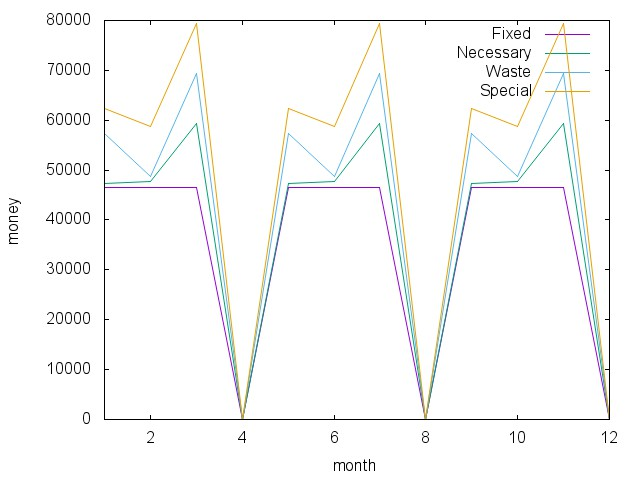
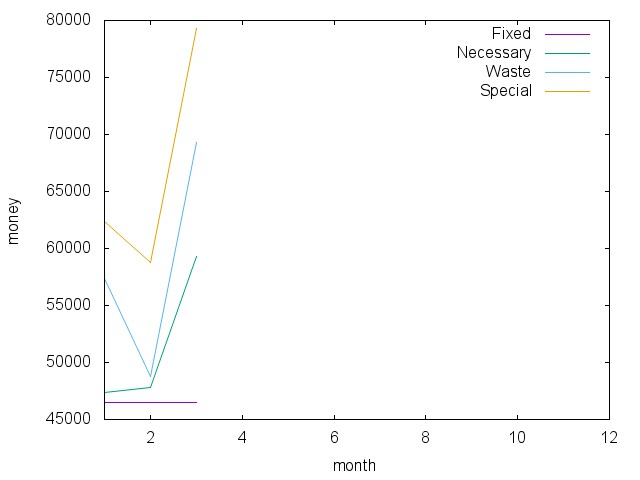
update
update

diff --git a/Private/household_account/kakeibo.rb b/Private/household_account/kakeibo.rb
@@ -3,6 +3,11 @@
 =end
 
 def main
+#過去データの削除
+    4.times do |a|
+        delete(a+1)
+    end
+
 #calをtxt数分、繰り返す    
     Dir.glob("./data/#{ARGV[0]}/*.txt").count.times do |month|
             cal(ARGV[0],month)
@@ -44,6 +49,7 @@ def cal(year,month)
 #p [tmp_all, tmp_one, tmp_two, tmp_three, tmp_four]
 
 #データの計算
+=begin
 #全体の計算    
     n = 1
     total_all = 0
@@ -51,6 +57,7 @@ def cal(year,month)
         total_all += tmp_all[ tmp_all.size - n ]
         n += 1
     end
+=end
 
 #固定費の計算
     n = 1
@@ -85,7 +92,6 @@ def cal(year,month)
    end
 
 #外部ファイルにデータを出力
-#    `echo "#{total_all}" >> ./data/output/text.txt`
     `echo "#{total_one}" >> ./data/output/text1.txt`
     `echo "#{total_two}" >> ./data/output/text2.txt`
     `echo "#{total_three}" >> ./data/output/text3.txt`
@@ -96,7 +102,7 @@ end
 
 def plot
 #テキストデータからデータを入力
-    open("./data/output/text.txt","a")#{|f| f.write jikken}
+#    open("./data/output/text.txt","a")#{|f| f.write jikken}
 
 #gnuplotにデータを投げている
 f=open "| gnuplot - -","w"
@@ -113,6 +119,14 @@ f.close
 #画像データの出力
     `open kakebo.jpeg`
 
+end
+
+# memory.txtを削除
+def delete(num)
+    data="./data/output/text#{num}.txt"
+    if File.file?(data) then
+        File.unlink data
+    end
 end
 
 main
